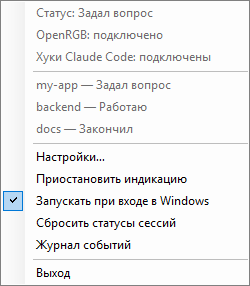
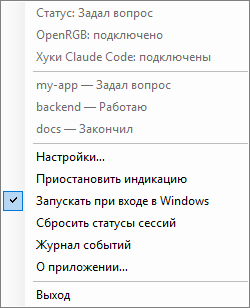
Добавлен пункт «О приложении» в меню трея и история версий, версия 1.1

Changed region(s): [[0.14, 0.028, 1.0, 0.979], [0.0, 0.6154, 0.112, 0.7552]]

diff --git a/src/AboutForm.cs b/src/AboutForm.cs
@@ -1,0 +1,97 @@
+using System;
+using System.Diagnostics;
+using System.Drawing;
+using System.Reflection;
+using System.Windows.Forms;
+
+namespace ClaudeGlow
+{
+    internal sealed class AboutForm : Form
+    {
+        private const string GitHubUrl = "https://github.com/aokazantsev/ClaudeGlow";
+        private const string SiteUrl = "https://aokazantsev.ru/pets/claudeglow/";
+        private const string ChangelogUrl = GitHubUrl + "/blob/main/CHANGELOG.md";
+        private const string ReleasesUrl = GitHubUrl + "/releases/latest";
+
+        private static AboutForm openForm;
+
+        public static void ShowSingle()
+        {
+            if (openForm != null)
+            {
+                openForm.Activate();
+                return;
+            }
+            openForm = new AboutForm();
+            openForm.FormClosed += (sender, e) => openForm = null;
+            openForm.Show();
+        }
+
+        private AboutForm()
+        {
+            Assembly assembly = Assembly.GetExecutingAssembly();
+            string product = Attribute<AssemblyProductAttribute>(assembly, a => a.Product, "ClaudeGlow");
+            string version = Attribute<AssemblyInformationalVersionAttribute>(assembly, a => a.InformationalVersion, assembly.GetName().Version.ToString());
+            string description = Attribute<AssemblyDescriptionAttribute>(assembly, a => a.Description, "");
+            string copyright = Attribute<AssemblyCopyrightAttribute>(assembly, a => a.Copyright, "");
+
+            Text = "О приложении " + product;
+            FormBorderStyle = FormBorderStyle.FixedDialog;
+            MaximizeBox = false;
+            MinimizeBox = false;
+            StartPosition = FormStartPosition.CenterScreen;
+            AutoScaleMode = AutoScaleMode.Dpi;
+            Font = SystemFonts.MessageBoxFont;
+            AutoSize = true;
+            AutoSizeMode = AutoSizeMode.GrowAndShrink;
+            Icon appIcon = Icon.ExtractAssociatedIcon(Application.ExecutablePath);
+            Icon = appIcon;
+
+            var layout = new TableLayoutPanel { AutoSize = true, ColumnCount = 2, Padding = new Padding(16), Dock = DockStyle.Fill };
+            layout.ColumnStyles.Add(new ColumnStyle(SizeType.AutoSize));
+            layout.ColumnStyles.Add(new ColumnStyle(SizeType.AutoSize));
+            Controls.Add(layout);
+
+            var picture = new PictureBox
+            {
+                Image = new Icon(appIcon, 48, 48).ToBitmap(),
+                SizeMode = PictureBoxSizeMode.Zoom,
+                Size = new Size(48, 48),
+                Margin = new Padding(0, 0, 16, 0)
+            };
+            layout.Controls.Add(picture, 0, 0);
+            layout.SetRowSpan(picture, 8);
+
+            var title = new Label { Text = product, AutoSize = true, Font = new Font(Font.FontFamily, Font.Size * 1.5f, FontStyle.Bold) };
+            layout.Controls.Add(title, 1, 0);
+            layout.Controls.Add(new Label { Text = "Версия " + version, AutoSize = true, Margin = new Padding(3, 2, 3, 8) }, 1, 1);
+            layout.Controls.Add(new Label { Text = description, AutoSize = true, MaximumSize = new Size(360, 0), Margin = new Padding(3, 0, 3, 12) }, 1, 2);
+            layout.Controls.Add(Link("Страница на сайте", SiteUrl), 1, 3);
+            layout.Controls.Add(Link("Исходники на GitHub", GitHubUrl), 1, 4);
+            layout.Controls.Add(Link("История версий", ChangelogUrl), 1, 5);
+            layout.Controls.Add(Link("Последняя версия", ReleasesUrl), 1, 6);
+            layout.Controls.Add(new Label { Text = copyright, AutoSize = true, ForeColor = SystemColors.GrayText, Margin = new Padding(3, 12, 3, 12) }, 1, 7);
+
+            var close = new Button { Text = "Закрыть", AutoSize = true, Anchor = AnchorStyles.Right, DialogResult = DialogResult.OK };
+            close.Click += (sender, e) => Close();
+            layout.Controls.Add(close, 1, 8);
+            AcceptButton = close;
+            CancelButton = close;
+        }
+
+        private static LinkLabel Link(string text, string url)
+        {
+            var link = new LinkLabel { Text = text, AutoSize = true, Margin = new Padding(3, 2, 3, 2) };
+            link.LinkClicked += (sender, e) => Process.Start(new ProcessStartInfo(url) { UseShellExecute = true });
+            return link;
+        }
+
+        private static string Attribute<T>(Assembly assembly, Func<T, string> read, string fallback) where T : Attribute
+        {
+            object[] found = assembly.GetCustomAttributes(typeof(T), false);
+            if (found.Length == 0) return fallback;
+            string value = read((T)found[0]);
+            return string.IsNullOrEmpty(value) ? fallback : value;
+        }
+    }
+}

diff --git a/src/TrayApplication.cs b/src/TrayApplication.cs
@@ -275,6 +275,7 @@ namespace ClaudeGlow
             menu.Items.Add(startupItem);
             menu.Items.Add(new ToolStripMenuItem("Сбросить статусы сессий", null, OnResetClick));
             menu.Items.Add(new ToolStripMenuItem("Журнал событий", null, OnLogClick));
+            menu.Items.Add(new ToolStripMenuItem("О приложении…", null, (s, a) => AboutForm.ShowSingle()));
             menu.Items.Add(new ToolStripSeparator());
             menu.Items.Add(new ToolStripMenuItem("Выход", null, OnExitClick));
             e.Cancel = false;

diff --git a/installer/setup/AssemblyInfo.cs b/installer/setup/AssemblyInfo.cs
@@ -6,7 +6,7 @@ using System.Runtime.InteropServices;
 [assembly: AssemblyCompany("aokazantsev")]
 [assembly: AssemblyProduct("ClaudeGlow")]
 [assembly: AssemblyCopyright("Copyright (c) 2026 aokazantsev. MIT License")]
-[assembly: AssemblyVersion("1.0.0.0")]
-[assembly: AssemblyFileVersion("1.0.0.0")]
-[assembly: AssemblyInformationalVersion("1.0")]
+[assembly: AssemblyVersion("1.1.0.0")]
+[assembly: AssemblyFileVersion("1.1.0.0")]
+[assembly: AssemblyInformationalVersion("1.1")]
 [assembly: ComVisible(false)]

diff --git a/installer/uninstall/AssemblyInfo.cs b/installer/uninstall/AssemblyInfo.cs
@@ -6,7 +6,7 @@ using System.Runtime.InteropServices;
 [assembly: AssemblyCompany("aokazantsev")]
 [assembly: AssemblyProduct("ClaudeGlow")]
 [assembly: AssemblyCopyright("Copyright (c) 2026 aokazantsev. MIT License")]
-[assembly: AssemblyVersion("1.0.0.0")]
-[assembly: AssemblyFileVersion("1.0.0.0")]
-[assembly: AssemblyInformationalVersion("1.0")]
+[assembly: AssemblyVersion("1.1.0.0")]
+[assembly: AssemblyFileVersion("1.1.0.0")]
+[assembly: AssemblyInformationalVersion("1.1")]
 [assembly: ComVisible(false)]

diff --git a/src/AssemblyInfo.cs b/src/AssemblyInfo.cs
@@ -6,7 +6,7 @@ using System.Runtime.InteropServices;
 [assembly: AssemblyCompany("aokazantsev")]
 [assembly: AssemblyProduct("ClaudeGlow")]
 [assembly: AssemblyCopyright("Copyright (c) 2026 aokazantsev. MIT License")]
-[assembly: AssemblyVersion("1.0.0.0")]
-[assembly: AssemblyFileVersion("1.0.0.0")]
-[assembly: AssemblyInformationalVersion("1.0")]
+[assembly: AssemblyVersion("1.1.0.0")]
+[assembly: AssemblyFileVersion("1.1.0.0")]
+[assembly: AssemblyInformationalVersion("1.1")]
 [assembly: ComVisible(false)]

diff --git a/installer/common/AppIdentity.cs b/installer/common/AppIdentity.cs
@@ -6,7 +6,7 @@ namespace ClaudeGlow
     internal static class AppIdentity
     {
         public const string Name = "ClaudeGlow";
-        public const string Version = "1.0";
+        public const string Version = "1.1";
         public const string ExecutableName = "ClaudeGlow.exe";
         public const string ProcessName = "ClaudeGlow";
         public const string UninstallerName = "Uninstall.exe";

diff --git a/CHANGELOG.md b/CHANGELOG.md
@@ -1,0 +1,19 @@
+# История версий ClaudeGlow
+
+Актуальная версия — в [Releases](../../releases/latest).
+
+## 1.1 — 06.10.2026
+
+- В меню трея появился пункт «О приложении»: версия, ссылки на страницу на сайте, исходники,
+  историю версий и последнюю версию.
+
+## 1.0 — 06.10.2026
+
+Первая публичная версия.
+
+- Статус тредов Claude Code на RGB-подсветке через OpenRGB: ошибка, нужно разрешение, вопрос,
+  закончил, работаю.
+- Настройки эффекта, цвета и скорости на каждый статус, выбор устройств и постоянный свет.
+- Установщик без прав администратора: сам прописывает хуки в настройки Claude Code, удаление
+  снимает только свои хуки.
+- Сведения о версии и авторе в программе и установщике.
